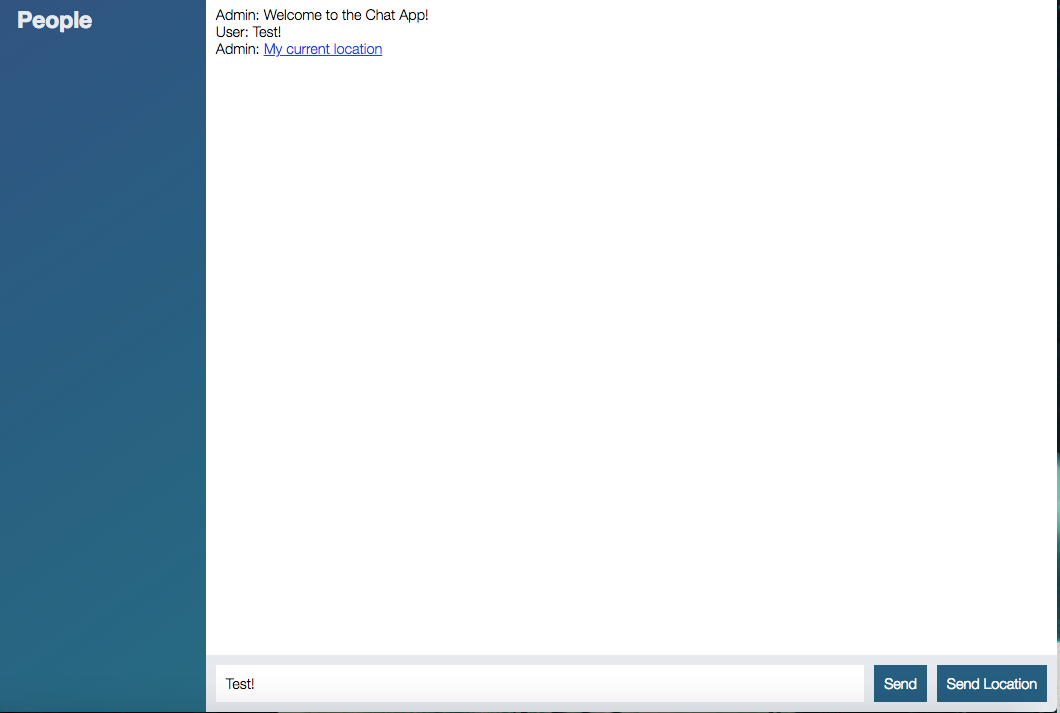
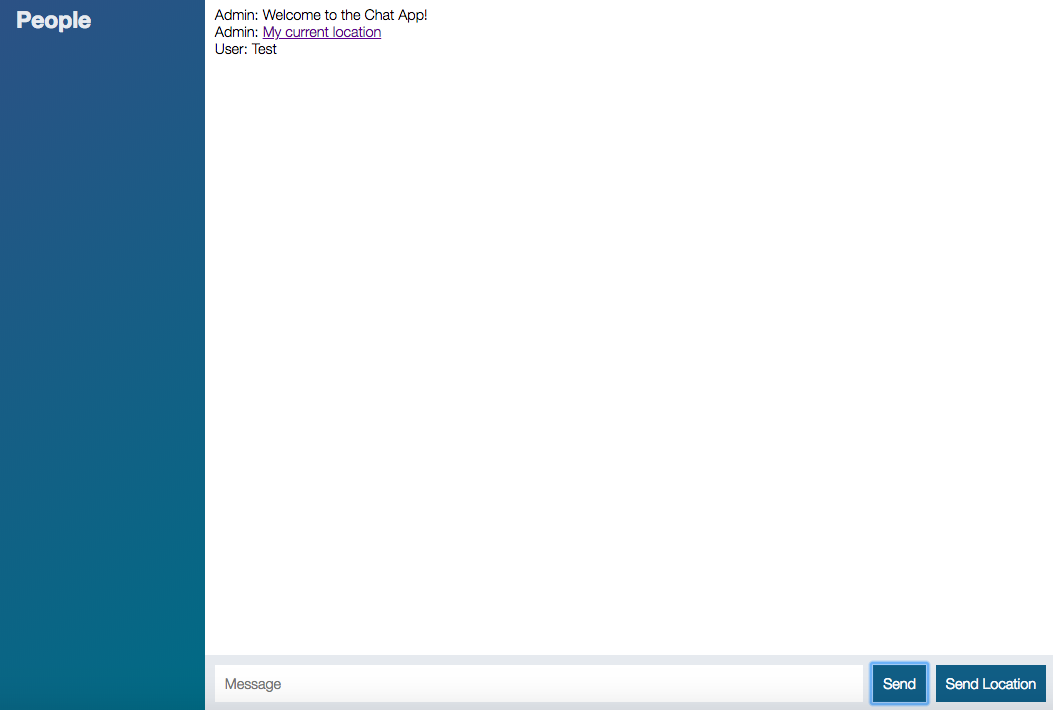
Small changes

Changed region(s): [[0.0, 0.0, 1.0, 1.0], [0.1823, 0.0, 0.4255, 0.093], [0.0304, 0.0, 0.0912, 0.062]]

diff --git a/public/js/index.js b/public/js/index.js
@@ -48,15 +48,16 @@ socket.on('newLocationMessage', function(message) {
 jQuery('#message-form').on('submit', function(eve) {
     //The eve event variable is to override the default behaivor to refresh page 
     eve.preventDefault();
-
+    const messageTextBox = jQuery('[name=message]');
     socket.emit('createMessage', {
         from: 'User',
-        text: jQuery('[name=message]').val()
+        text: messageTextBox.val()
     }, function() {
-
+        //clear the value of the geo location
+        messageTextBox.val('')
     })
 });
-//Setup for the buttono to get geolocation
+//Setup for the button listener to get geolocation
 const locationButton = jQuery('#send-location');
 locationButton.on('click', function() {
     //Check if user has geolocation
@@ -64,12 +65,16 @@ locationButton.on('click', function() {
         //if not stop the function execuation via return alert.
         return alert('Geolocation not supported by your browrser');
     }
+    locationButton.attr('disabled', 'disabled').text('Sending location...');
+
     navigator.geolocation.getCurrentPosition(function(position) {
+        locationButton.removeAttr('disabled').text('Send location');
         socket.emit('createLocationMessage', {
             latitude: position.coords.latitude,
-            longitue: position.coords.longitude
+            longitude: position.coords.longitude
         });
     }, function() {
+        locationButton.removeAttr('disabled').text('Send location');
         alert('Unable to fetch location.');
     });
 });;

diff --git a/public/index.html b/public/index.html
@@ -26,10 +26,10 @@
         </ol>
         <div class="chat__footer">
             <form id="message-form">
-                <input name="message" type="text" placeholder="Message" />
+                <input name="message" type="text" placeholder="Message" autofocus autocomplete="off" />
                 <button>Send</button>
             </form>
-            <button id="send-location">Send Location </button>
+            <button id="send-location">Send location</button>
         </div>
     </div>
 

diff --git a/server/server.js b/server/server.js
@@ -32,7 +32,7 @@ io.on('connection', (socket) => {
         //io.emit to all users - wired the newMessage event
         //we get the newMessage from the user.
         io.emit('newMessage', generateMessage(message.from, message.text));
-        callback('This is from the server.');
+        callback();
 
         //Broadcasting Events - all but me will see msg.
         // socket.broadcast.emit('newMessage', {

diff --git a/README.md b/README.md
@@ -1,5 +1,5 @@
 # Real-Time Web Apps with Socket-io
 
 [Link to the website on heroku](https://shrouded-depths-30757.herokuapp.com/)
-&nbsp;&nbsp;
-![Screnshot](https://github.com/elivanK/node-chat-app/blob/master/public/images/screenshot.png)
+
+&nbsp;&nbsp;&nbsp;![Screnshot](https://github.com/elivanK/node-chat-app/blob/master/public/images/screenshot.png)
